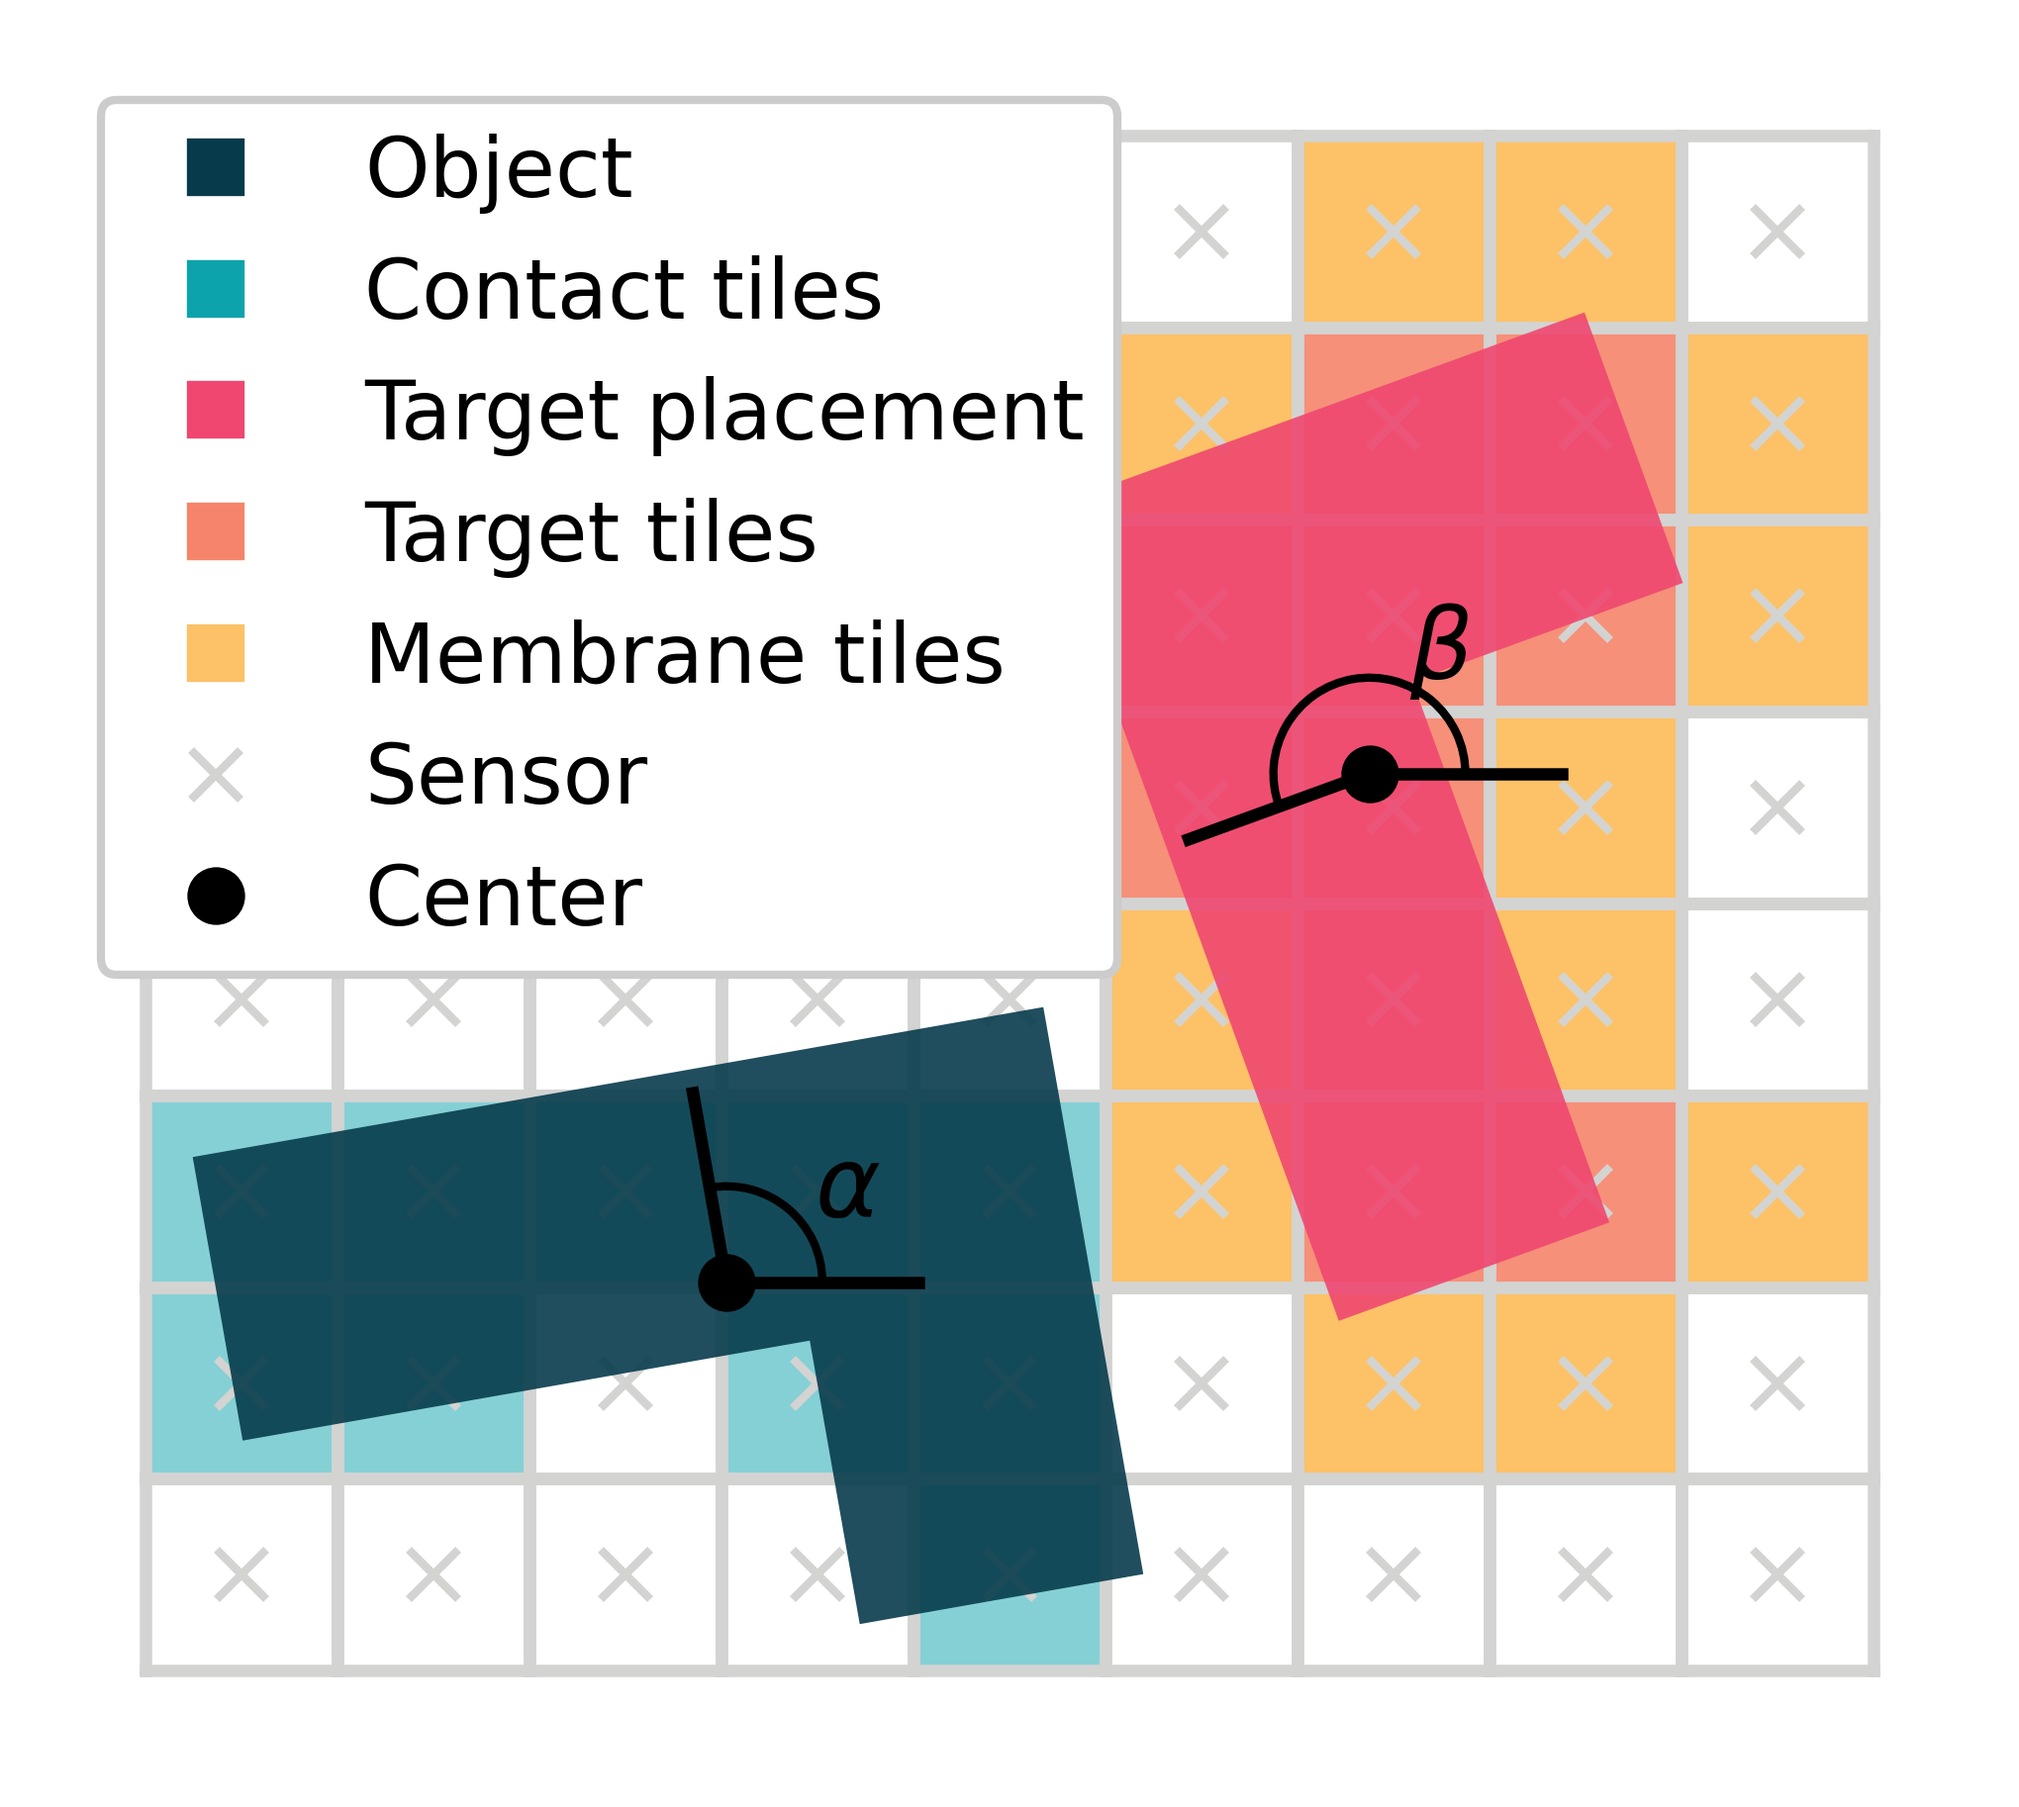
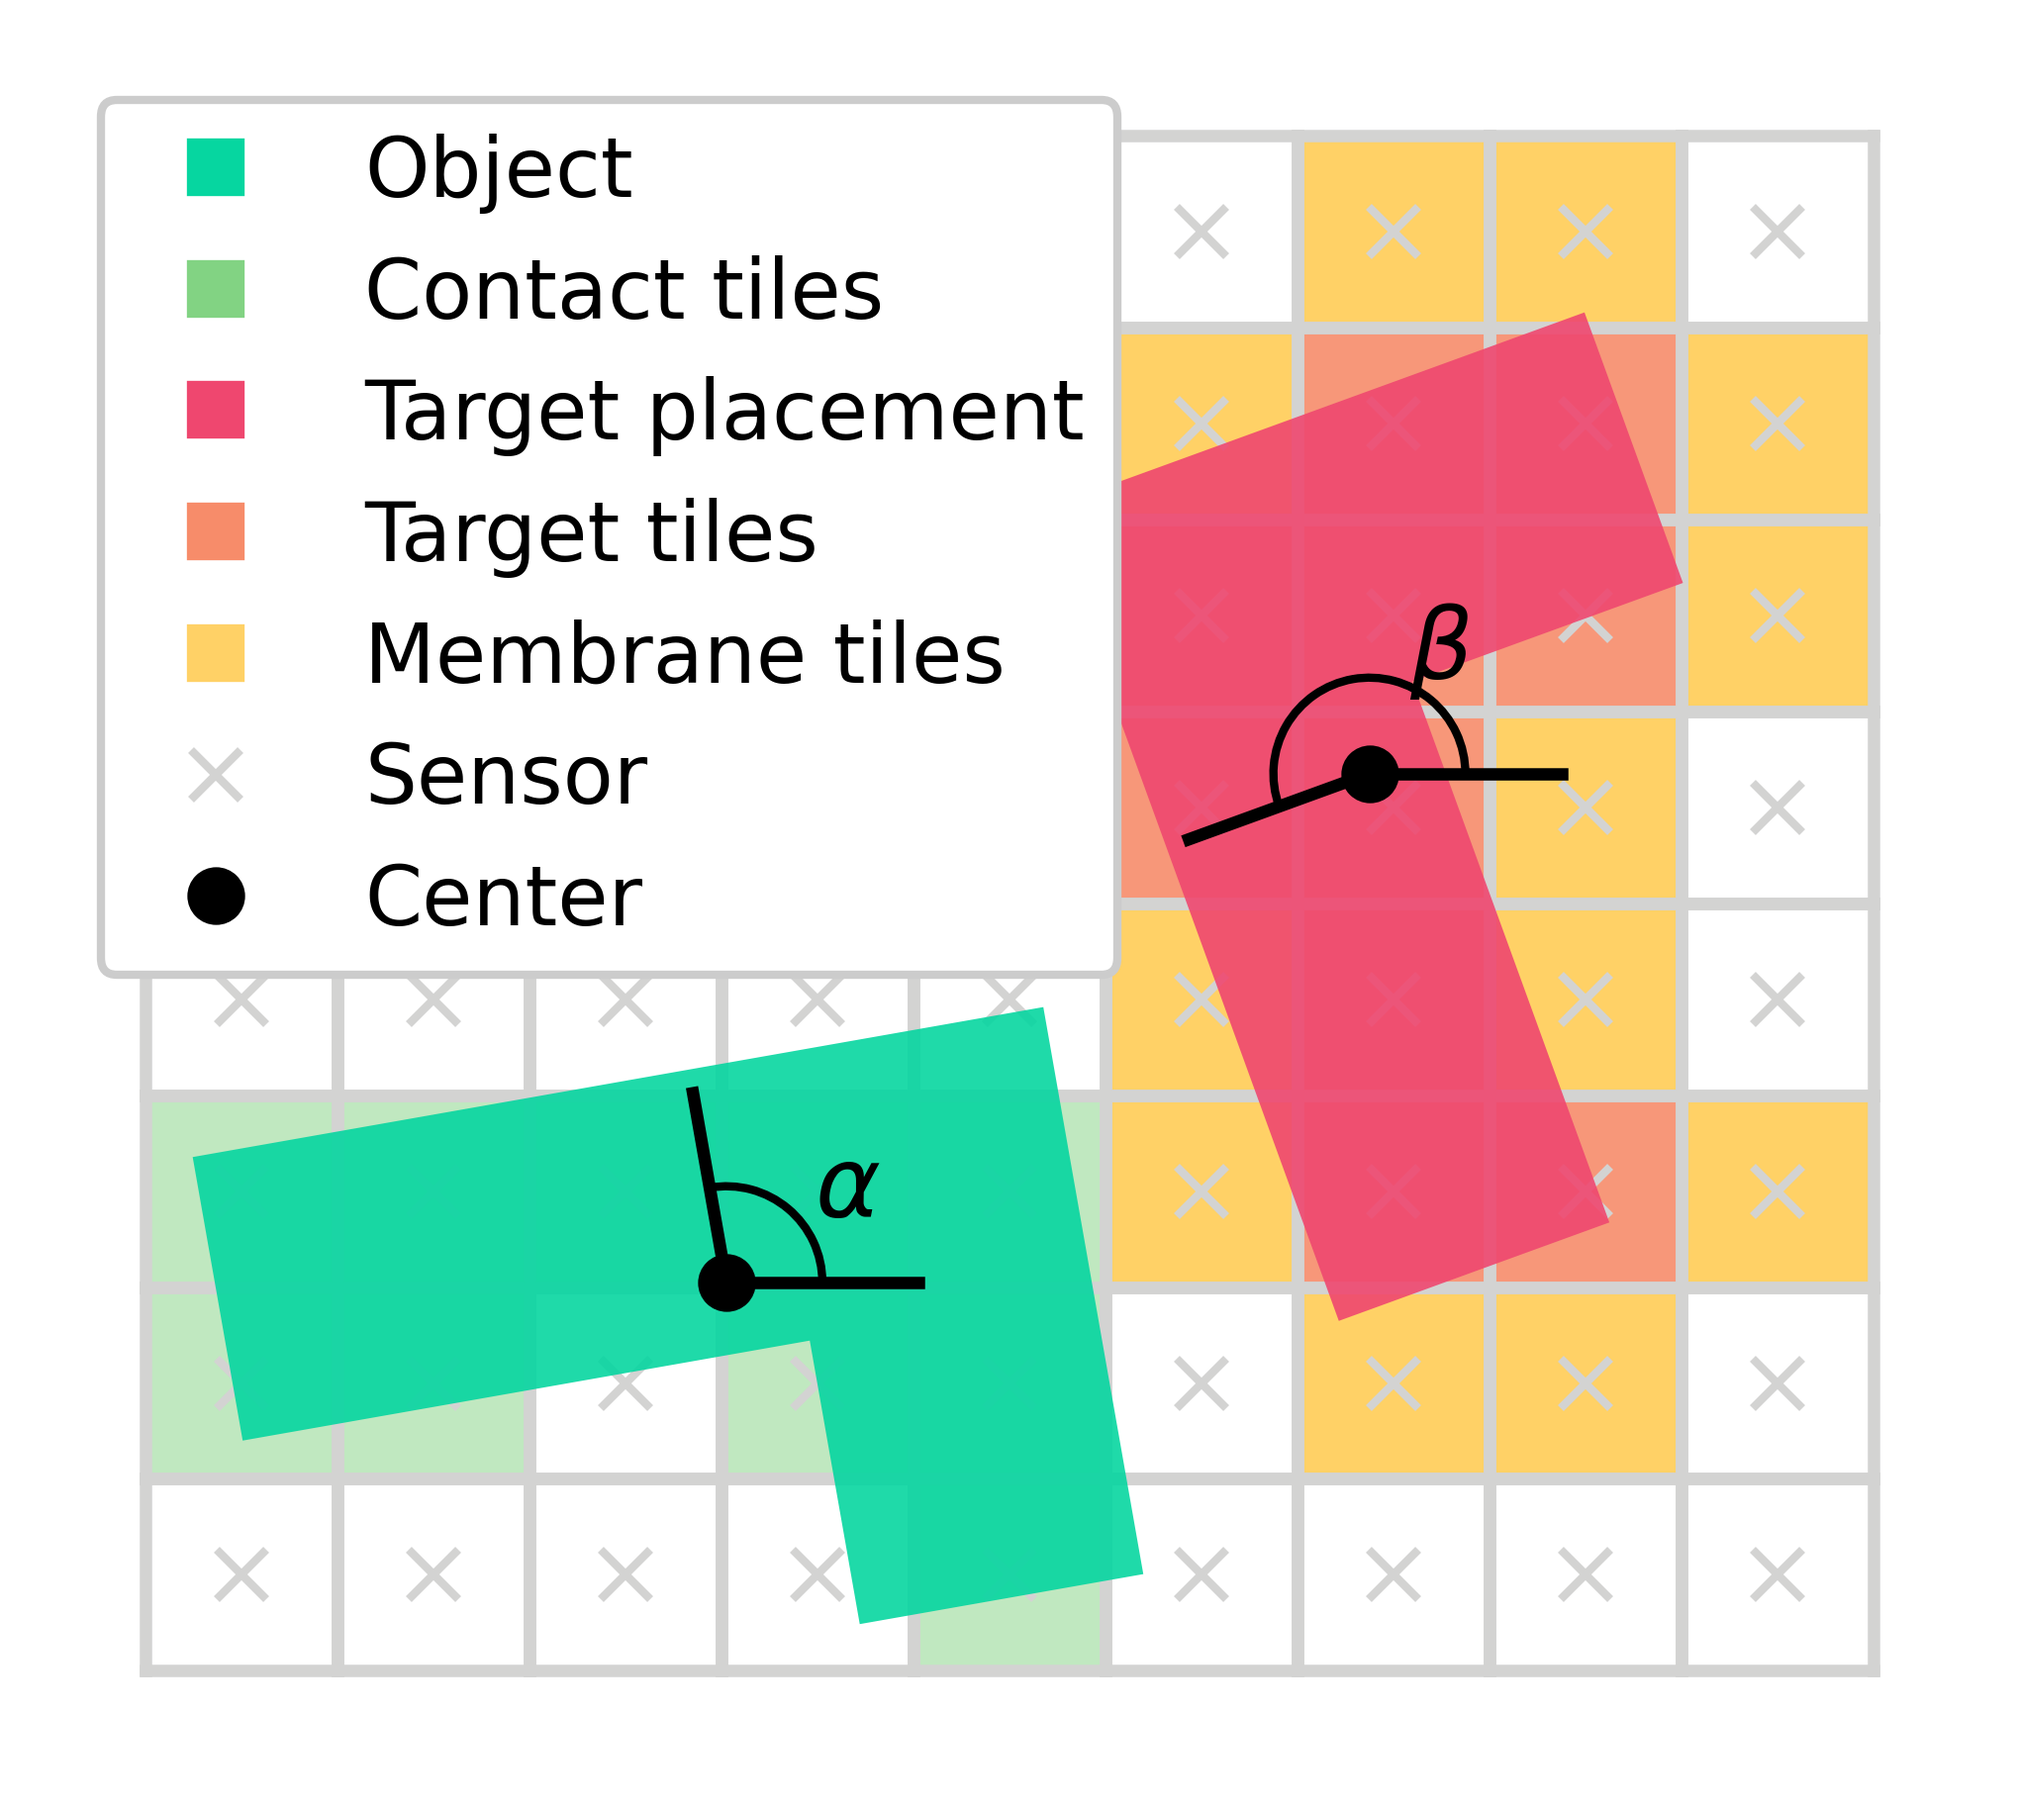
colors

Changed region(s): [[0.0618, 0.5619, 0.5868, 0.9365], [0.0926, 0.0624, 0.1235, 0.1873]]

diff --git a/Media/Figures_Rotation_Environment.py b/Media/Figures_Rotation_Environment.py
@@ -11,15 +11,15 @@ import os
 import sys
 #add parent directory to path
 sys.path.append(os.path.dirname(os.path.dirname(os.path.abspath(__file__))))
-CMAP = cm.GnBu
+CMAP = cm.Oranges
 
 class COLORS:
     import _colors
-    palette = _colors.create_palette(10,normalize=True)
+    palette = _colors.create_palette(9,normalize=True)
     #_colors.show_palette(palette, save=True, name='palette.png')
-    OBJECT =        palette[-1]
+    OBJECT =        palette[4]
     TARGET =        palette[0]
-    CONTACT_TILE =  palette[-4]
+    CONTACT_TILE =  palette[3]
     TARGET_TILE =   palette[1]
     MEMBRANE =     palette[2]
     GRID =          '#d3d3d2'
@@ -620,10 +620,8 @@ def figure_vortex(data_patha = None):
 
 if __name__ == '__main__':
     #figure_environment()
-    
-    figure_vortex(data_patha='Media\Data\Logistic_vortex.json')
-    figure_vortex(data_patha='Media\Data\Gaussian_vortex.json')
-    sys.exit()
+    #figure_vortex(data_patha='Media\Data\Logistic_vortex.json')
+    #figure_vortex(data_patha='Media\Data\Gaussian_vortex.json')
     datafiles = ['Media\Data\Data_Behavior_Rotation.json',
                  'Media\Data\Data_Behavior_No_Rotation.json',
                  ]
